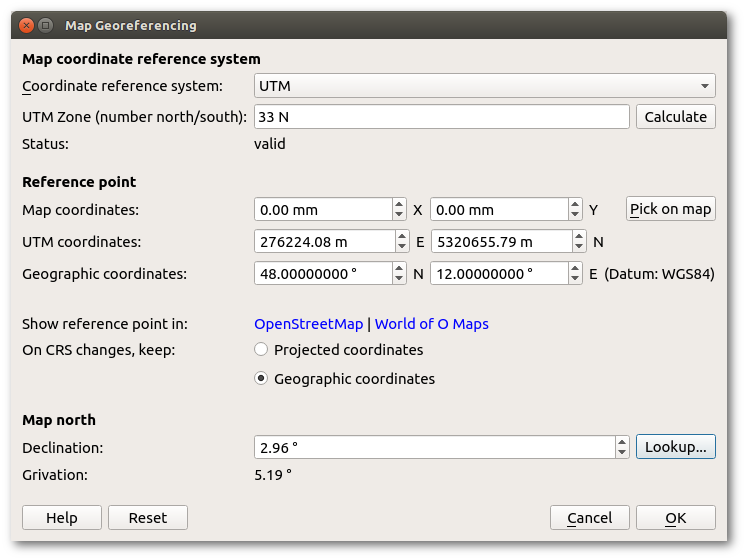
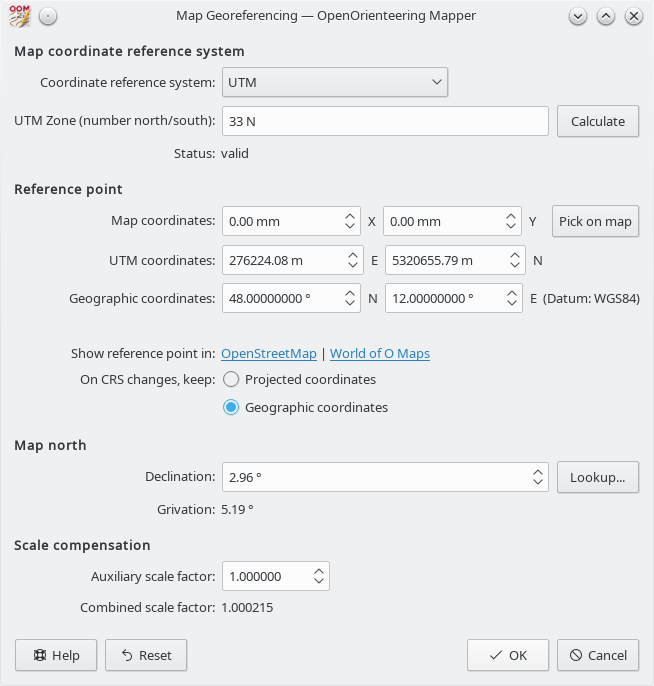
Georeferencing: Added support for auxiliary scale factor.
Original commit: OpenOrienteering/mapper@34bb323

diff --git a/pages/georeferencing.md b/pages/georeferencing.md
@@ -4,7 +4,7 @@ authors:
   - Peter Hoban
   - Thomas Schoeps
 keywords: Georeferencing
-edited: 25 February 2013
+edited: 25 January 2020
 ---
 
  - [Introduction](#introduction)
@@ -18,32 +18,35 @@ edited: 25 February 2013
 
 Georeferencing of a map is the best way for aligning templates (such as base maps or aerial imagery) and GPS tracks. In short, to georeference a map means to establish a known relationship between the paper coordinates of the map and the coordinates of a geographic coordinate reference system. This way, data which is known in a geographic coordinate reference system (such as GPS coordinates) can be transformed to map coordinates and thus displayed on the map, and vice versa the map can be transformed to geographic coordinates and e.g. be displayed on a world map. More information is available on [Wikipedia](https://en.wikipedia.org/wiki/Georeferencing).
 
-Georeferencing properties are set in a dialog which is available from the menu **Map &gt; Georeferencing...**. The dialog is divided in three sections: Map coordinate reference system, Reference point and Map north.
+Georeferencing properties are set in a dialog which is available from the menu **Map &gt; Georeferencing...**. The dialog is divided in four sections: Map coordinate reference system, Reference point, Map north, and Scale compensation.
 
 ![Georeferencing dialog](images/georeferencing.png)
 
 #### Map coordinate reference system
 
-This section defines in which kind of projected coordinates (real-world metric cartesian coordinates) the reference point relating map and geographic coordinates is defined. Projected coordinates are transformed to map coordinates by scaling and rotation. You should thus choose the coordinate reference system in which you know the real-world coordinates of a point on the map. In case you just want to load some GPS tracks, you can also just safely use UTM, which is widely used world-wide. Other choices are:
+This section specifies the projection which relates latitude/longitude (in degrees) to flat coordinates (in real-world meters). The coordinate reference system is one important step in relating coordinates on the round Earth to coordinates on the flat paper map (in actual map millimeters). The additional steps are scaling, rotation, and adding an offset.
+
+In case you just want to load some GPS tracks, you can safely use UTM, which is widely used world-wide. Other choices are:
 
  - **Gauss-Kr&uuml;ger**: this is similar to UTM and widely used in Germany, but is being superseded by UTM.
  - **From Proj.4 specification**: projections are internally handled by the [PROJ.4 Cartographic Projections library](https://proj4.org/), so coordinate reference systems can also be given in its internal specification format. Examples may be found at [http://www.remotesensing.org/geotiff/proj_list/ (Internet Archive)](https://web.archive.org/web/20160802172057/http://www.remotesensing.org/geotiff/proj_list/) and [http://spatialreference.org/](http://spatialreference.org/). When selecting this option, the specification field will be pre-filled with the specification of the previously selected coordinate reference system.
+ - **EPSG**: for any coordinate reference system in this extensive worldwide registry.
  - **Local**: this enables you to use local projected coordinates without a mapping to global geographic coordinates.
 
 Depending on the selected coordinate reference system more settings may show up. For example, for UTM the zone number must be given in addition.
 
 #### Reference point
 
-Settings in this section define the reference point, which is the point for which coordinates in all of the involved coordinate systems are known. Thus it acts as the anchor between the different coordinate reference systems.
+Settings in this section define the reference point, which is a point for which coordinates in all of the involved coordinate systems are known. It acts as the anchor between the different coordinate reference systems.
 
 In case the georeferencing dialog is triggered by loading a georeferenced template in a map which is not georeferenced yet, these settings are probably already pre-filled with sensible values (assuming that no other map objects exist yet), so they do not need to be changed in this case.
 
-The **Map coordinates** field shows the map paper coordinates of this point. To change them, use the **Select...** button. The georeferencing dialog will then be hidden until you select a point on the map (left mouse click) or cancel the selection process (another mouse button). Changing the reference point on the map will not affect the other sections.
+The **Map coordinates** field shows the map paper coordinates of this point. To change them, use the **Pick on map** button. The georeferencing dialog will then be hidden until you select a point on the map (left mouse click) or cancel the selection process (another mouse button). Changing the reference point on the map will not affect the other sections.
 
 The next set of coordinates gives the reference point east-west and north-south position in **projected coordinates**, for example in UTM or Gauss-Kr&uuml;ger coordinates. Unless working with local coordinates, changing easting or northing will update the geographic coordinates. Easting and northing are given in meters.
 
 The third set of coordinates gives the reference point position in **geographic coordinates**. Note that after the selection of a coordinate reference system other than local, projected and geographic coordinates are linked together, so changing one will also change the other. Geographic coordinates specify a location on the planet's surface by
-latitude and longitude. Latitude and longitude are measured in decimal degrees. Also note that according to convention, the first coordinate here is the latitude (northing) and the second the longitude (easting).
+latitude and longitude. Latitude and longitude are measured in decimal degrees. Also note that according to convention, the first coordinate here is the latitude and the second the longitude.
 
  - The **latitude** specifies the north-south position of the reference point as an angle relative to the equatorial plane. Negative values indicate the southern hemisphere.
  - The **longitude** specifies the east-west position as angle relative to a prime meridian. Negative values indicate a position west of the prime meridian.
@@ -59,10 +62,17 @@ The last option in this section determines which coordinates will be recalculate
 
 In the **Declination** field the angle between true north and magnetic north at the position of the map has to be entered to make magnetic north be at the top. This can be looked up from an online accessible model as soon as the reference point geographic coordinates are entered, however it should be checked with a precise compass if accuracy is required.
 
-**Grivation** determines the rotation which moves the magnetic north to the top of the map. Grivation is composed of magnetic declination (the angle between true north and magnetic north) and grid convergence (the angle between true north and grid north).
+**Grivation** determines the rotation which turns the projected grid so that magnetic north is at the top of the map. Grivation is composed of magnetic declination (the angle between true north and magnetic north) and grid convergence (the angle between true north and grid north).
+
+
+#### Scale compensation
+
+**Auxiliary scale factor** may be set to compensate when distances on the ground differ from distances on the Earth model, such as occurs when the terrain is at high altitude. It is the ratio of model distance to ground distance. The default factor of 1.0 has no effect. Beside that, Mapper automatically calculates the grid scale factor, which accounts for the difference between projected distance and model distance. Mapper puts this together with the auxiliary scale factor, to form the **combined scale factor**.
 
 
 #### Related functions
+
+The default, basic Georeferencing dialog is lacking a few of the above-described options that are not generally needed. The settings (menu File > Settings > Georeferencing) can enable these advanced features.
 
 The (mouse) cursor position of the map editor can be displayed in map coordinates, projected coordinates or geographic coordinates (decimal or as degrees/minutes/seconds, DMS). The coordinates of the cursor on the map sheet are discussed [here](view_menu.md#coorddisplay).
 
